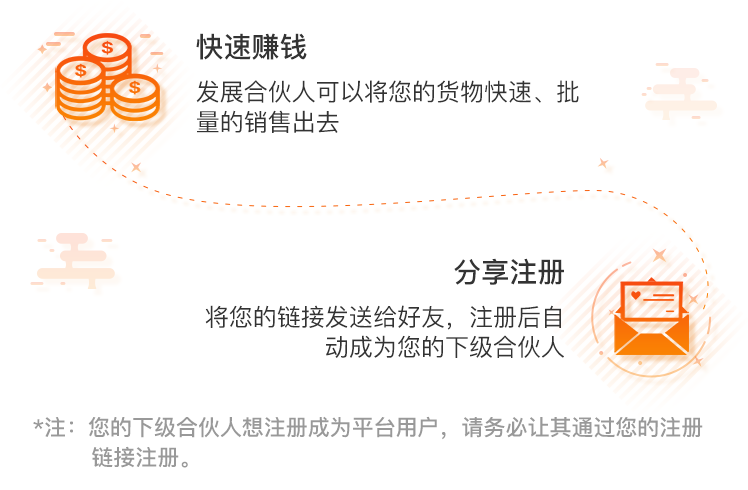
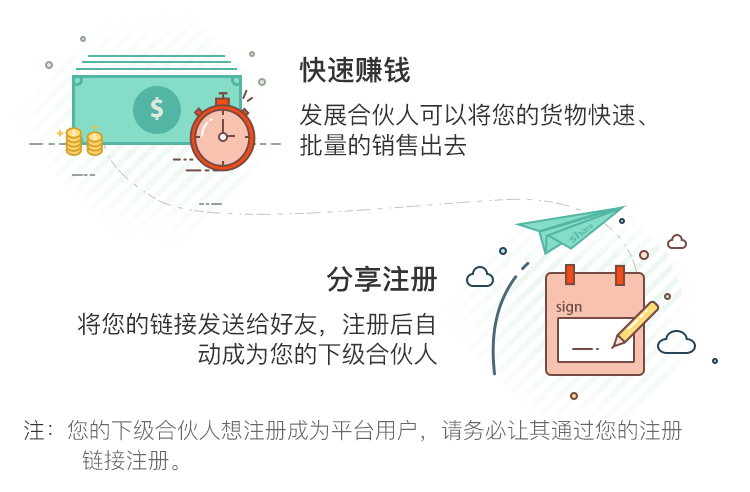
样式修改

diff --git a/shop-web/src/main/webapp/static/css/fazhanhehuo.css b/shop-web/src/main/webapp/static/css/fazhanhehuo.css
@@ -18,7 +18,7 @@
 .wrap main > p {
   background: #fff;
   border-bottom: 1px solid #F6F6F6;
-  padding: 5px 10px;
+  padding: 10px;
   font-size: 12px;
 }
 .wrap main .sec1 {
@@ -26,24 +26,27 @@
   background: #fff;
   position: relative;
   margin-bottom: 5px;
+  padding: 10px;
 }
 .wrap main .sec1 botton {
   position: absolute;
   right: 10px;
-  top: 10px;
+  bottom: 6px;
   display: block;
-  width: 70px;
+  width: 64px;
   height: 20px;
   border: 1px solid #F74A11;
   color: #F74A11;
   text-align: center;
   line-height: 20px;
-  border-radius: 5px;
+  border-radius: 2px;
+  font-size: 12px;
 }
-.wrap main .sec1 img {
+.wrap main .sec1>img {
   display: block;
   width: 80px;
   height: 80px;
+  border: 1px solid #ddd;
 }
 .wrap main .sec1 div {
   margin-left: 10px;
@@ -54,16 +57,33 @@
   display: block;
   font-size: 12px;
 }
-.wrap main .sec1 div p b {}
+.wrap main .sec1 div p:first-child{
+  margin: 3px 0 0 0;
+  font-size: 12px;
+  color: #666;
+}
 .wrap main .sec1 div h1 {
   font-size: 12px;
   background: url("../images/icon_60.png") no-repeat 0;
-  text-indent: 20px;
-  background-size: 10%;
+  text-indent: 17px;
+  background-size: 13px;
   color: #666;
-  margin-top: 10px;
 }
 .wrap main .sec1 div h2 {
   font-size: 12px;
   color: #999999;
+}
+.wrap main .sec1 .wu{
+  position:absolute;
+  right:10px;
+  bottom: 3px;
+  font-size:12px;
+}
+.wrap main .sec1 .wu>img{
+  display:inline-block;
+  width: 13px;
+  height: 13px;
+  float: right;
+  margin-left: 5px;
+  margin-top: 2px;
 }

diff --git a/shop-web/src/main/webapp/static/css/zhucelianjie.css b/shop-web/src/main/webapp/static/css/zhucelianjie.css
@@ -4,53 +4,9 @@
   height: 100%;
   color: #333333;
 }
-.wrap #box > p {
-  text-indent: 10px;
-  line-height: 20px;
-  padding-top: 5px;
-}
-.wrap #box .sec1 {
-  margin-top: 5px;
-  background: #fff;
-  padding-bottom: 10px;
-}
-.wrap #box .sec1 p {
-  background: #ffffff url("../images/icon_62.png") no-repeat 0;
-  background-size: contain;
-  text-indent: 10px;
-  color: white;
-}
-.wrap #box .sec1 img {
-  display: block;
-  width: 94%;
-  margin: 20px auto;
-}
-.wrap #box .sec2 {
-  margin-top: 10px;
-  background: #fff;
-  padding-bottom: 10px;
-  margin-bottom: 10px;
-}
-.wrap #box .sec2 p {
-  background: #ffffff url("../images/icon_62.png") no-repeat 0;
-  background-size: contain;
-  text-indent: 10px;
-  color: white;
-}
-.wrap #box .sec2 img {
-  display: block;
-  width: 50%;
+img{
+  width:90%;
   margin: 0 auto;
-  margin-top: 5px;
-  margin-bottom: 20px;
-}
-.wrap #box .sec2 h1 {
-  text-indent: 10px;
-  padding-top: 10px;
-  padding-bottom: 5px;
-}
-.wrap #box .sec2 h3 {
-  text-align: center;
-  color: #F74911;
-  text-decoration: underline;
+  display: block;
+  margin-top: 6%;
 }
